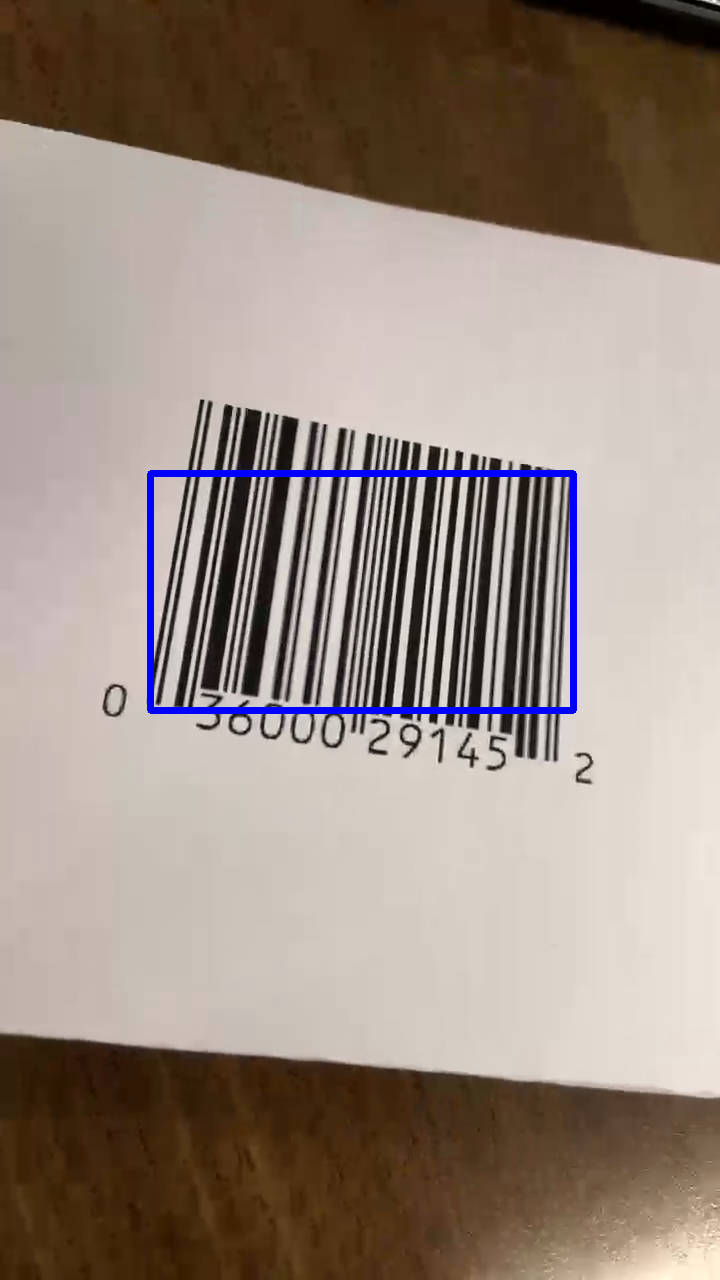
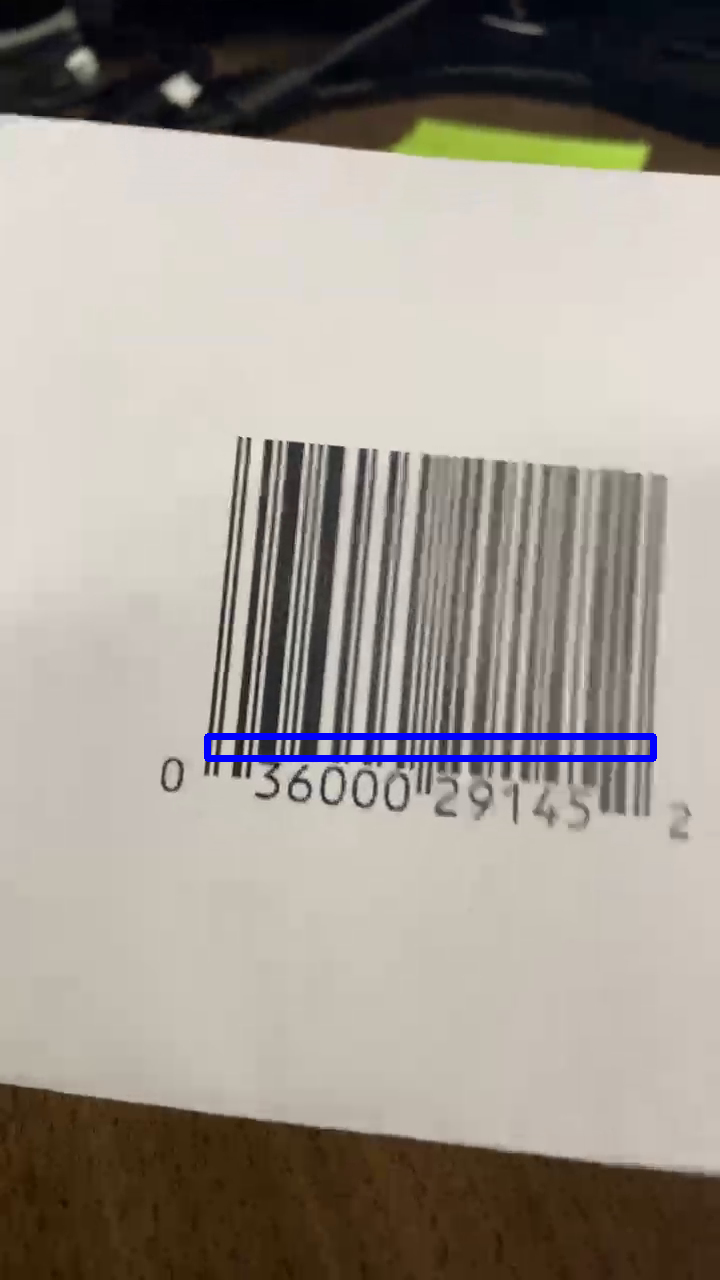
edited readme

diff --git a/server.py b/server.py
@@ -89,7 +89,7 @@ class VideoTransformTrack(MediaStreamTrack):
             new_frame.time_base = frame.time_base
             return new_frame
         elif self.transform == "barcode":
-            img = frame #.to_ndarray(format="bgr24")
+            img = frame.to_ndarray(format="bgr24")
             barcodes = decode(img)
             for barcode in barcodes:
                 img = cv2.rectangle(img, (barcode.rect.left, barcode.rect.top), 

diff --git a/README.md b/README.md
@@ -1,3 +1,14 @@
+# WebRTC Full Stack Server/Client
 
-## Start
-`python .\server.py --cert-file .\keys\domain.crt --key-file .\keys\domain.key`
+## For LAN Access
+Requires SSL certificate and key file to access on HTTPS
+
+## Start only for localhost
+`python server.py`
+
+## Start server with SSL on HTTPS
+`python server.py --cert-file .\keys\domain.crt --key-file .\keys\domain.key`
+Browse to https://localhost:8080
+
+### Help
+Run `python server.py -h` for argument help
